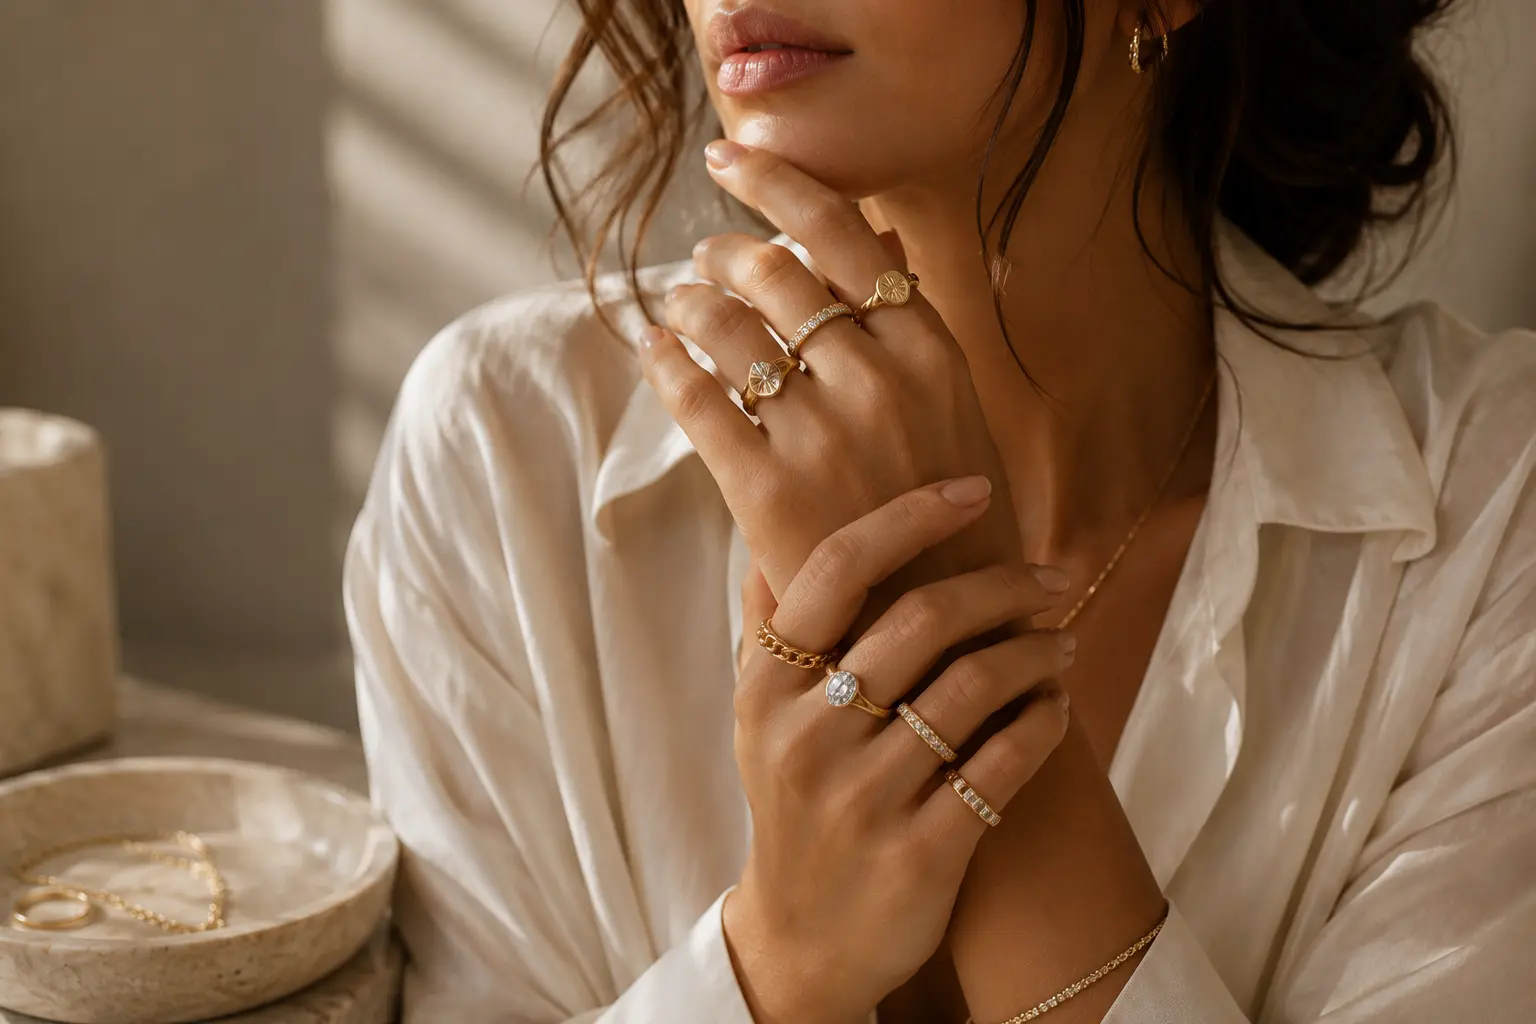
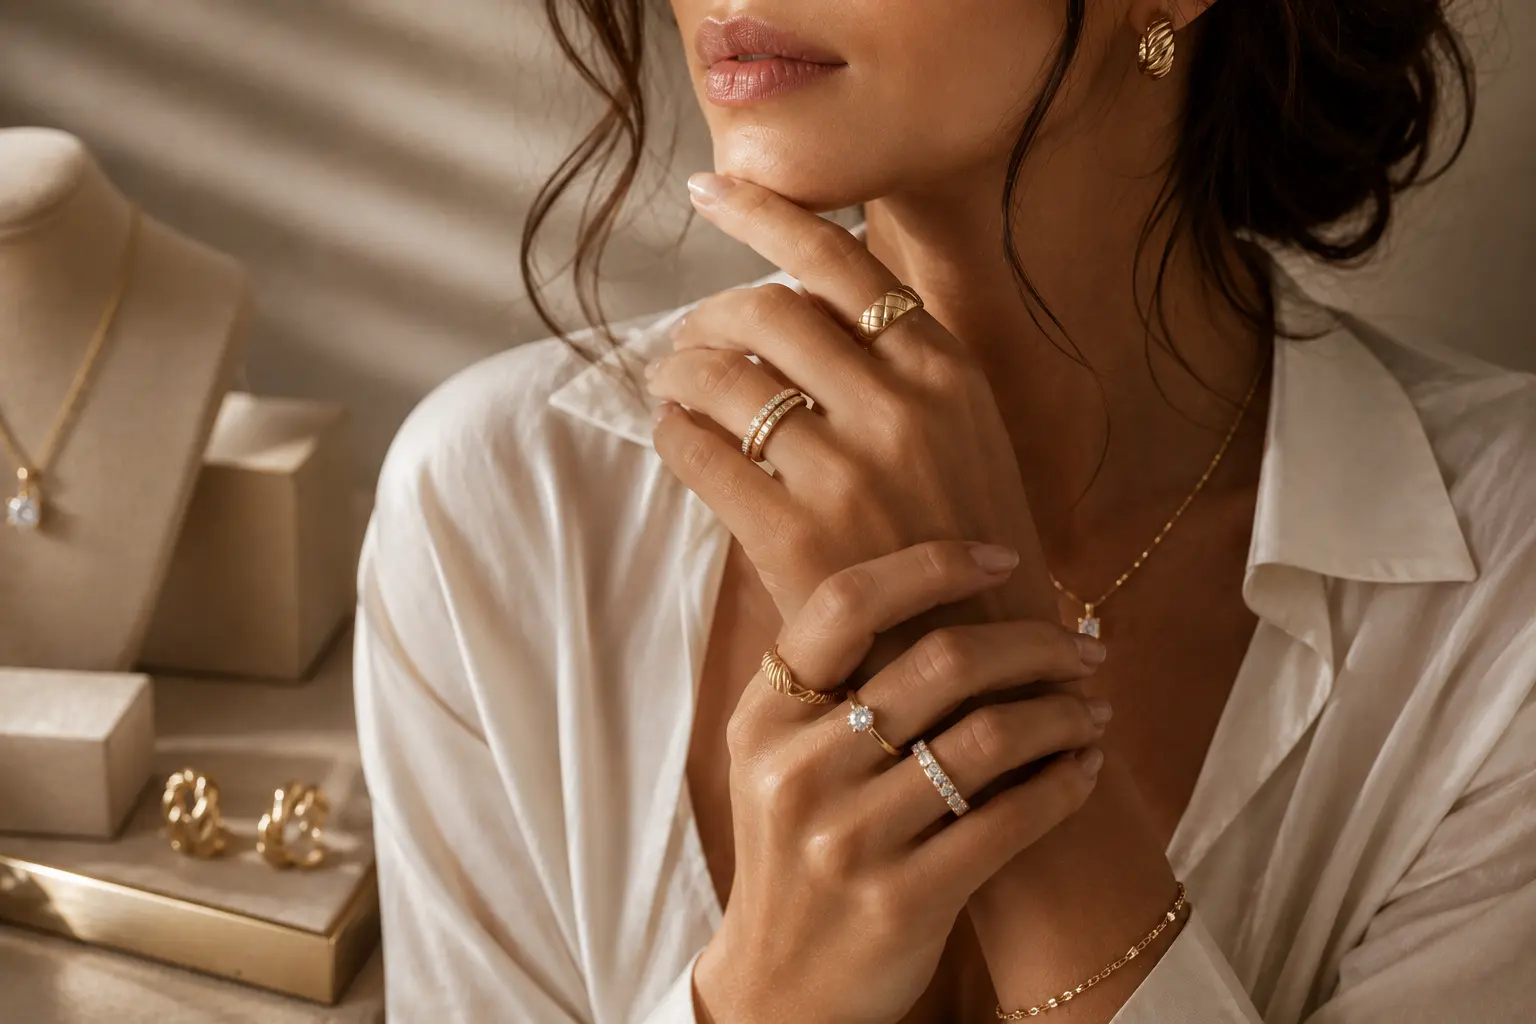
appointments

diff --git a/frontend/src/views/CarritoView.vue b/frontend/src/views/CarritoView.vue
@@ -5,6 +5,7 @@ import { estaAutenticado, logOut, usuario } from '@/servicios/autenticacion'
 import { ref, onMounted, computed } from 'vue'
 import { useRouter } from 'vue-router'
 import { useToast } from 'vue-toastification'
+import axios from 'axios'
 
 import { eliminarCarrito } from '@/servicios/tarea'
 const formatPrice = (price) => {
@@ -21,7 +22,23 @@ const irHome = () => {
 const totalItems = computed(() => carrito.value.length)
 
 const carrito = ref([])
+const reservaVip = ref(null) //lo q aparecerá en carrito
 const eliminando = ref(null)
+
+const obtenerReservaVip = async () => {
+  if (!usuario.value) return //proteger 
+  try {
+
+    const res = await axios.get(
+      `https://tfg-lumeria.onrender.com/appointments/user/${usuario.value.uid}`
+    )
+
+    reservaVip.value = res.data
+
+  } catch (error) {
+    console.log(error)
+  }
+}
 
 const obtenerDatos = async () => {
   const resultado = await obtenerCarrito()
@@ -73,6 +90,14 @@ const cerrarSesion = async () => {
       Selección Exclusiva
     </h1>
 
+    <div v-if="reservaVip?.giftStatus === 'pendiente'">
+      Regalo pendiente de recoger
+    </div>
+
+    <div v-if="reservaVip?.giftStatus === 'entregado'">
+      Regalo entregado
+    </div>
+
     <p class="subtitle">
       Tus piezas seleccionadas para una experiencia de compra personalizada.
     </p>
@@ -100,6 +125,28 @@ const cerrarSesion = async () => {
     </button>
 
   </div>
+  <div
+  v-if="reservaVip?.giftEligible"
+  class="vipGiftCard"
+>
+  <p class="mini">
+    ENGAGEMENT CONCIERGE BENEFIT
+  </p>
+
+  <h2>
+    Regalo exclusivo desbloqueado
+  </h2>
+
+  <p>
+    Has reservado una experiencia privada antes de la fecha prevista para tu pedida.
+    Como agradecimiento, recibirás una pulsera de diamantes en plata valorada en 499€
+    durante vuestra visita privada a Lumeria.
+  </p>
+
+  <div class="giftValue">
+    Valor exclusivo · 499€
+  </div>
+</div>
 
 </div>
 
@@ -173,6 +220,36 @@ const cerrarSesion = async () => {
 </template>
 
 <style lang="sass" scoped>
+.vipGiftCard
+  margin: 50px auto
+  max-width: 850px
+  background: linear-gradient(135deg, #fff, #faf8f1)
+  border: 1px solid rgba(212,175,55,.25)
+  border-radius: 30px
+  padding: 45px
+  text-align: center
+  box-shadow: 0 20px 60px rgba(0,0,0,.08)
+
+.vipGiftCard h2
+  font-size: 34px
+  font-weight: 450
+  margin: 15px 0
+
+.vipGiftCard p
+  max-width: 650px
+  margin: auto
+  color: #666
+  line-height: 1.9
+
+.giftValue
+  margin-top: 30px
+  display: inline-flex
+  padding: 12px 24px
+  border-radius: 40px
+  background: rgba(212,175,55,.12)
+  color: #AA7C11
+  font-weight: 600
+
 .carrito
   max-width: 1180px
   margin: 60px auto

diff --git a/frontend/src/views/CompromisoView.vue b/frontend/src/views/CompromisoView.vue
@@ -29,8 +29,8 @@
     <p>Si reservas vuestra experiencia antes de la pedida, recibiréis una pulsera de diamantes en plata valorada en 499€</p>
     <p class="reglas">Para garantizar una experiencia totalmente personalizada, las reservas deben realizarse con un mínimo de 3 días de antelación. La fecha prevista para la pedida deberá ser posterior a la fecha de vuestra cita privada.</p>
 
-    <p class="info-fecha">Las citas privadas requieren un mínimo de 3 días de antelación. Próxima fecha disponible:<strong>{{ fechaMinimaFormateada }}</strong></p>
-    <p v-if="fechaCita" class="info-reserva">La fecha de la pedida debe ser posterior a la cita privada. Primera fecha posible para la pedida: <strong>{{ fechaPedidaMinFormateada }}</strong>
+    <p class="info-fecha">Las citas privadas requieren un mínimo de 3 días de antelación. Próxima fecha disponible: <strong>{{ fechaMinimaFormateada }}</strong></p>
+    <p v-if="fechaCita" class="info-reserva">La fecha de la pedida debe ser posterior a la cita privada. Primera fecha posible: <strong>{{ fechaPedidaMinFormateada }}</strong>
     </p>
 
     <img src="/images/hola.jpg">
@@ -203,7 +203,7 @@ const reservar = async () => {
       toast.error("La fecha de la pedida debe ser posterior a la cita privada.")
       return
     }
-    // 
+    const giftEligible = new Date(fechaPedida.value) > new Date(fechaCita.value)
 
     await axios.post(
       "https://tfg-lumeria.onrender.com/appointments/",
@@ -214,6 +214,10 @@ const reservar = async () => {
         time: hora.value,
         service: "Engagement Concierge",
         interest: interest.value,
+
+        proposalDate: fechaPedida.value,
+
+        giftEligible, giftStatus: "pendiente",
 
         notes: notasVip
       }
@@ -238,7 +242,8 @@ const reservar = async () => {
   }
 }
 onMounted(() => {
-  cargarProductos()
+  obtenerDatos()
+  obtenerReservaVip()
 })
 </script>
 

diff --git a/frontend/src/views/ProductsView.vue b/frontend/src/views/ProductsView.vue
@@ -106,7 +106,7 @@ const irProducto = (id) => {
 .hero_products
   width: 100%
   height: 75vh
-  background: url('/images/main.webp') center/cover
+  background: url('/images/Main.webp') center/cover
   position: relative
 
 .overlay

diff --git a/backend/routes/appointments.py b/backend/routes/appointments.py
@@ -1,79 +1,3 @@
-# from flask import Blueprint, request, jsonify
-# from bd.bd import db_conn
-# from services.google_calendar import create_calendar_event
-# from services.email_service import enviar_confirmacion
-
-# appointments = Blueprint("appointments", __name__)
-# #CREAR CITA
-# @appointments.route("/", methods=["POST"])
-# def create_appointment():
-#     try:
-#         data = request.get_json()
-#         # print(data) #prueba si llega hasta aqui  
-#         # añadi eso 25/05 para proteger
-#         if not data.get("user_id"):
-#             return jsonify({
-#                 "ok": False,
-#                 "error": "Usuario no autenticado"
-#             }), 401
-#         # añadi eso 25/05 para proteger; evita: POST manual, peticiones falsas, reservas sin login
-#         if (not data.get("date") or not data.get("time") or not data.get("email")):
-#             # por si falta algun campo q no se rompa pero q diga --> "error": "Faltan campos obligatorios"
-#             return jsonify({
-#                 "ok": False,
-#                 "error": "Faltan campos obligatorios"
-#             }), 400   
-#         conn = db_conn()
-#         cursor = conn.cursor()
-
-#         cursor.execute("""INSERT INTO appointments (user_id,date,time,interest,notes) VALUES (%s,%s,%s,%s,%s)""",
-#             (
-#                 data["user_id"],
-#                 data["date"],
-#                 data["time"],
-#                 data["interest"],
-#                 data["notes"]
-#                 # me sirve para: Private Experience, Engagement Concierge, cualquier formulario de citas GC 
-#             )
-#         )
-#         conn.commit()
-#         cursor.close()
-#         conn.close()
-#         # GOOGLE CALENDAR + correo autom
-#         create_calendar_event(
-#             data["date"],
-#             data["time"],
-#             data["service"])
-        
-#         enviar_confirmacion(
-#             data["email"],
-#             data["date"],
-#             data["time"],
-#             data["notes"],
-#             data["interest"])
-#         return jsonify({
-#             "ok": True,
-#             "msg": "Cita reservada correctamente"})
-
-#     except Exception as error:
-#         print(error)
-#         return jsonify({
-#             "ok": False,
-#             "error": str(error)})
-        
-# # VER CITAS
-# # antes tenía eso: @appointments.route("/<int:user_id>") INT pero en bd lo cambie a varchar de 255 asi q:
-# @appointments.route("/<user_id>")
-# def get_appointments(user_id):
-#     conn = db_conn()
-#     cursor = conn.cursor(dictionary=True)
-#     cursor.execute("SELECT * FROM appointments WHERE user_id=%s", (user_id,))
-
-#     data = cursor.fetchall()
-#     cursor.close()
-#     conn.close()
-#     return jsonify(data)
-
 from flask import Blueprint, request, jsonify
 # import threading
 from bd.bd import db_conn
@@ -96,7 +20,6 @@ appointments = Blueprint("appointments", __name__)
 #         except Exception as e:
 #             print("EMAIL ERROR:", e)
 
-
 @appointments.route("/", methods=["POST"])
 def create_appointment():
     try:
@@ -113,14 +36,18 @@ def create_appointment():
         cursor = conn.cursor()
 
         cursor.execute("""
-            INSERT INTO appointments (user_id,date,time,interest,notes)
-            VALUES (%s,%s,%s,%s,%s)
+            INSERT INTO appointments (user_id,date,time,interest,notes,proposalDate,giftEligible,giftStatus,service)
+            VALUES (%s,%s,%s,%s,%s,%s,%s,%s,%s)
         """, (
             data["user_id"],
             data["date"],
             data["time"],
             data["interest"],
-            data["notes"]
+            data["notes"],
+            data["proposalDate"],
+            data["giftEligible"],
+            data["giftStatus"],
+            data["service"]
         ))
 
         conn.commit()
@@ -159,3 +86,25 @@ def create_appointment():
     
 # arreglo de: WORKER TIMEOUT, bloqueo de SMTP
 # Flask responde rapido, no hay timeout
+
+# ruta para citas privadas 
+@appointments.route("/user/<uid>", methods=["GET"])
+def get_user_appointment(uid):
+
+    conn = db_conn()
+    cursor = conn.cursor(dictionary=True)
+
+    cursor.execute("""
+        SELECT *
+        FROM appointments
+        WHERE user_id = %s
+        AND service = 'Engagement Concierge'
+        LIMIT 1
+    """, (uid,))
+
+    cita = cursor.fetchone()
+
+    cursor.close()
+    conn.close()
+
+    return jsonify(cita)
